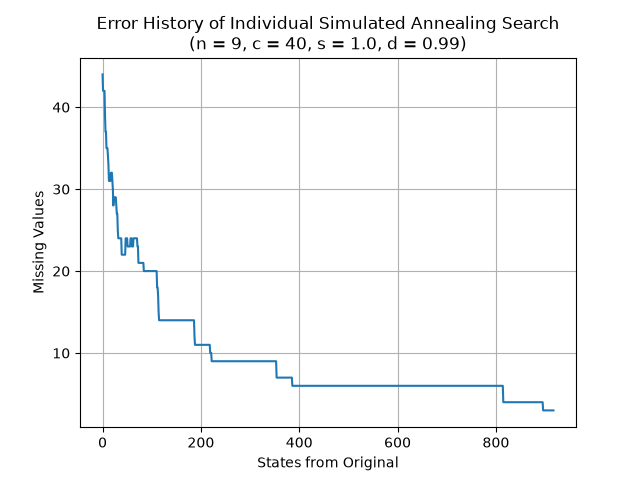
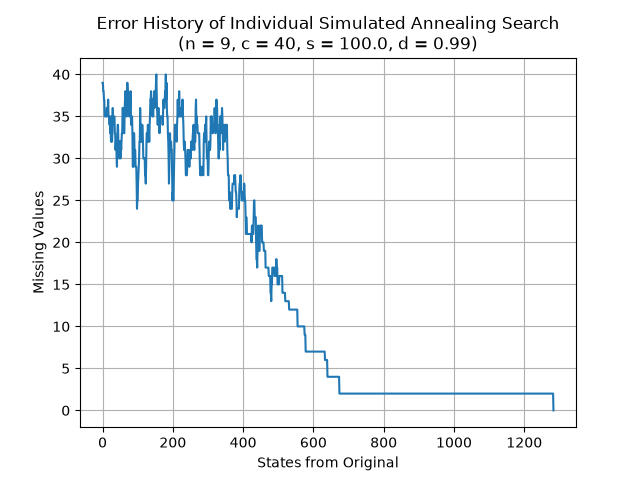
Fix simulate annealing; modify plotting functions Change simulate annealing to output lists successfully. Plotting functions no longer shows the plot after each user input.

diff --git a/hw1/src/sudoku.py b/hw1/src/sudoku.py
@@ -106,12 +106,12 @@ def simulated_annealing(board, clues, startT, decay, tol=1e-4):
     errors_per_iter = []
 
     while True:
-        # errors_per_iter.append(num_errors(current))
+        errors_per_iter.append(num_errors(current))
         if num_errors(current) == 0:
-            return current
+            return current, errors_per_iter
         T = startT * (decay**iter)
         if T < tol:
-            return current
+            return current, errors_per_iter
         
         next_options = successors(current, clues)
         if not next_options:
@@ -139,7 +139,6 @@ def plot_annealing_history(history, grid_size, clues, starting_t, decay):
     ax.grid()
 
     fig.savefig("individual.png")
-    plt.show()
 
 
 def plot_error_histogram(final_errors, grid_size, clues, starting_t, decay, batch_size):
@@ -152,7 +151,6 @@ def plot_error_histogram(final_errors, grid_size, clues, starting_t, decay, batc
     plt.title(title)
 
     plt.savefig("batch.png")
-    plt.show()
 
 
 def main():
